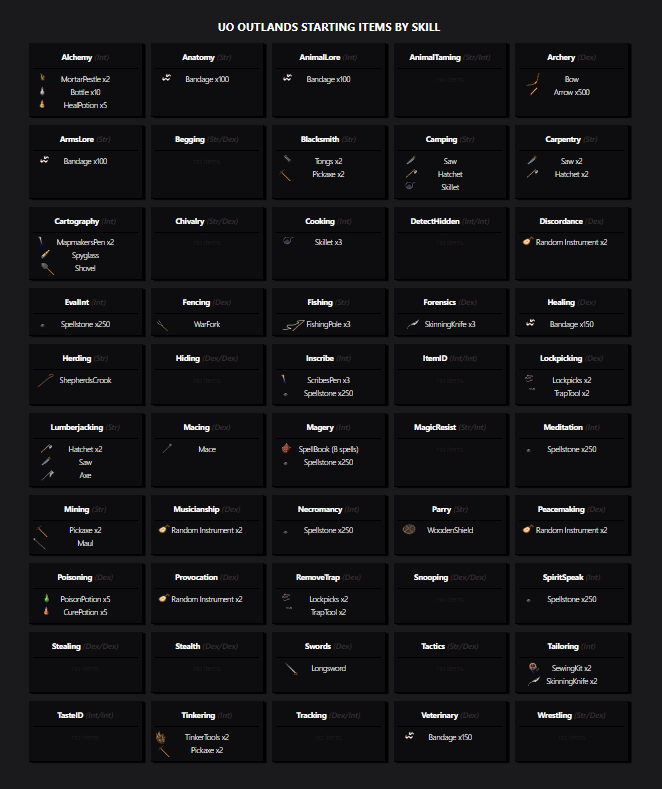
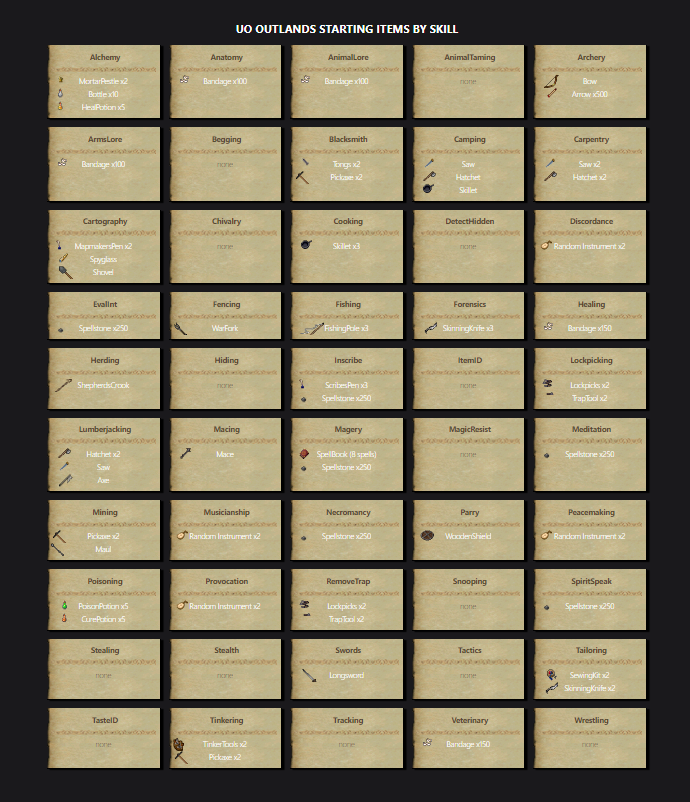
improve visuals on starter items

diff --git a/app/styles/starter-items.css b/app/styles/starter-items.css
@@ -108,35 +108,38 @@
 
 @media (min-width: 600px) {
     .parent { grid-template-columns: repeat(2, 1fr); }
-  }
+}
 
-  @media (min-width: 900px) {
+@media (min-width: 900px) {
+    .parent { grid-template-columns: repeat(4, 1fr); }
+}
+
+@media (min-width: 1200px) {
     .parent { grid-template-columns: repeat(5, 1fr); }
-  }
-
+}
 
 .starter-skill-item-container {
-    background-color: rgba(0,0,0,.5);
-    color: white;
+    background-image: url('/images/scroll_mid_top.png');
+    color: #fff;
     padding: .5rem;
     border-right: 1px solid #000;
     border-bottom: 1px solid #000;
     box-shadow: 5px 2px 2px #000;
 }
 
-
-
 .starter-skill-item-container b {
     display: block;
-    border-bottom: 1px solid #000;
-    padding: .5rem;
+    color: #5a4a31;
+    padding: .2rem .1rem 1rem .5rem;
     margin-bottom: .5em;
+    background-image: url('/images/breaker.png');
+    background-repeat: no-repeat;
+    background-position: bottom;
 }
 
 .starter-skill-item-container b i, .no-items {
-    color: #312d31;
+    color: #5a4a31;
 }
-
 
 
 .starter-skill-item-container i span {

diff --git a/app/routes/outlands/starter-items.tsx b/app/routes/outlands/starter-items.tsx
@@ -297,11 +297,12 @@ export default function Index() {
       {skillStarterItems.map(skill => {
         return <div key={`skills_key_${skill.name}`} className={"starter-skill-item-container"}>
 
-          <b>{skill.name} <i>({skill.stats.map((stat, index) => {
+          {/* <b>{skill.name} <i>({skill.stats.map((stat, index) => {
             var extra = index > 0 ? "/" : "";
             return `${extra}${stat}`;
-          })})</i></b>
+          })})</i></b> */}
           
+          <b>{skill.name}</b>
 
           {skill.items.length > 0 ? 
 
@@ -309,7 +310,7 @@ export default function Index() {
               {item}
 
         </div>)
-    :   <div className={"no-items"}>no items</div>
+    :   <div className={"no-items"}>none</div>
         }
         </div>
       })}
